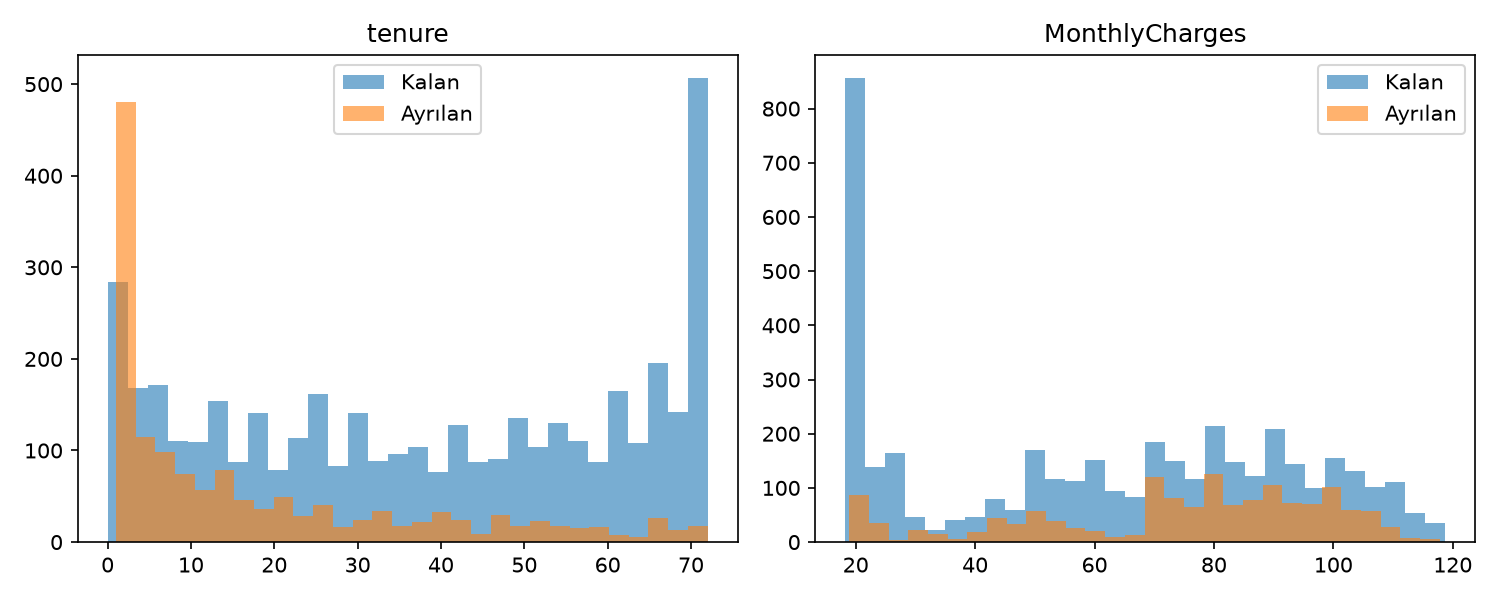
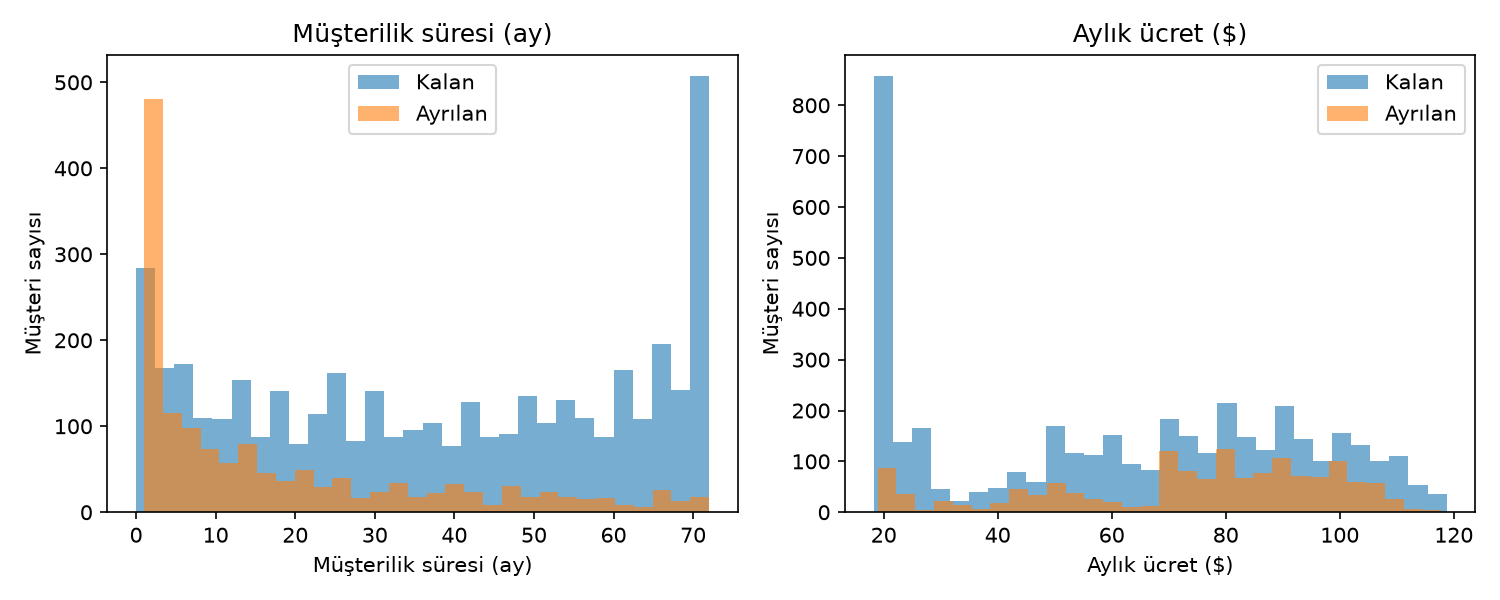
README: depo bağlantısı güncellendi

diff --git a/notebooks/01_eda.py b/notebooks/01_eda.py
@@ -40,10 +40,21 @@ df["TotalCharges"] = sayi
 df["Churn"] = (df["Churn"] == "Yes").astype(int)
 print(df["Churn"].value_counts())
 
+# Sütun adlarının Türkçe karşılıkları (sadece grafikte görünür, tablodaki adlar değişmez)
+TR = {
+    "tenure": "Müşterilik süresi (ay)",
+    "MonthlyCharges": "Aylık ücret ($)",
+    "TotalCharges": "Toplam ücret ($)",
+    "SeniorCitizen": "Yaşlı müşteri",
+    "Churn": "Ayrılma",
+    "Contract": "Sözleşme türü",
+}
+
 # GRAFİK 1: kalan ve ayrılan müşteri sayısı
 sayilar = df["Churn"].value_counts().sort_index()      # sırayla 0 ve 1
 sayilar.index = ["Kalan", "Ayrılan"]                   # etiketleri okunur yap
-sayilar.plot(kind="bar", color=["tab:blue", "tab:red"])
+ax = sayilar.plot(kind="bar", color=["tab:blue", "tab:red"])  # grafiği "ax" adıyla tut
+ax.bar_label(ax.containers[0])                                # her çubuğun üstüne sayısını yaz
 plt.title("Hedef değişken dağılımı")
 plt.ylabel("Müşteri sayısı")
 plt.xticks(rotation=0)                                 # yazılar yatay dursun
@@ -56,7 +67,9 @@ fig, eksenler = plt.subplots(1, 2, figsize=(10, 4))    # yan yana 2 kutu
 for ax, sutun in zip(eksenler, ["tenure", "MonthlyCharges"]):
     for deger, ad in [(0, "Kalan"), (1, "Ayrılan")]:
         ax.hist(df.loc[df["Churn"] == deger, sutun], bins=30, alpha=0.6, label=ad)
-    ax.set_title(sutun)
+    ax.set_title(TR[sutun])           # Türkçe başlık
+    ax.set_xlabel(TR[sutun])          # yatay eksen adı
+    ax.set_ylabel("Müşteri sayısı")   # dikey eksen adı
     ax.legend()
 plt.tight_layout()
 plt.savefig("results/g2_histogramlar.png", dpi=150)
@@ -68,9 +81,9 @@ sayisal = ["tenure", "MonthlyCharges", "TotalCharges"]   # sayısal sütunlarım
 fig, eksenler = plt.subplots(1, 3, figsize=(12, 4))
 for ax, sutun in zip(eksenler, sayisal):
     df.boxplot(column=sutun, by="Churn", ax=ax)   # Churn'e göre iki kutu çiz
-    ax.set_title(sutun)
-    ax.set_xlabel("Churn (0 = kaldı, 1 = ayrıldı)")
-fig.suptitle("")                                  # pandas'ın otomatik başlığını sil
+    ax.set_title(TR[sutun])           # Türkçe başlık
+    ax.set_xlabel(TR["Churn"] + " (0 = kaldı, 1 = ayrıldı)")   # yatay eksen adı
+    fig.suptitle("")                                  # pandas'ın otomatik başlığını sil
 plt.tight_layout()
 plt.savefig("results/g3_kutu_grafikleri.png", dpi=150)
 plt.close()
@@ -86,10 +99,13 @@ for sutun in sayisal:
 # GRAFİK 4: sözleşme türüne göre ayrılma oranı
 # Churn 0/1 olduğu için ortalaması = ayrılanların oranı
 oran = df.groupby("Contract")["Churn"].mean().sort_values() * 100
+# Sözleşme türlerini Türkçeleştir
+oran = oran.rename({"Month-to-month": "Aylık", "One year": "1 yıllık", "Two year": "2 yıllık"})
 oran.plot(kind="bar", color="tab:orange")
 plt.ylabel("Ayrılma oranı (%)")
 plt.title("Sözleşme türüne göre churn oranı")
 plt.xticks(rotation=0)
+plt.xlabel(TR["Contract"])       # eksen adı
 plt.tight_layout()
 plt.savefig("results/g4_sozlesme_churn.png", dpi=150)
 plt.close()
@@ -97,7 +113,7 @@ plt.close()
 # GRAFİK 5: korelasyon matrisi (sütunlar birbirine ne kadar bağlı?)
 korelasyon = df[sayisal + ["SeniorCitizen", "Churn"]].corr()
 plt.figure(figsize=(6, 5))
-sns.heatmap(korelasyon, annot=True, fmt=".2f", cmap="coolwarm", center=0)
+sns.heatmap(korelasyon.rename(index=TR, columns=TR), annot=True, fmt=".2f", cmap="coolwarm", center=0)
 plt.title("Korelasyon matrisi")
 plt.tight_layout()
 plt.savefig("results/g5_korelasyon.png", dpi=150)
